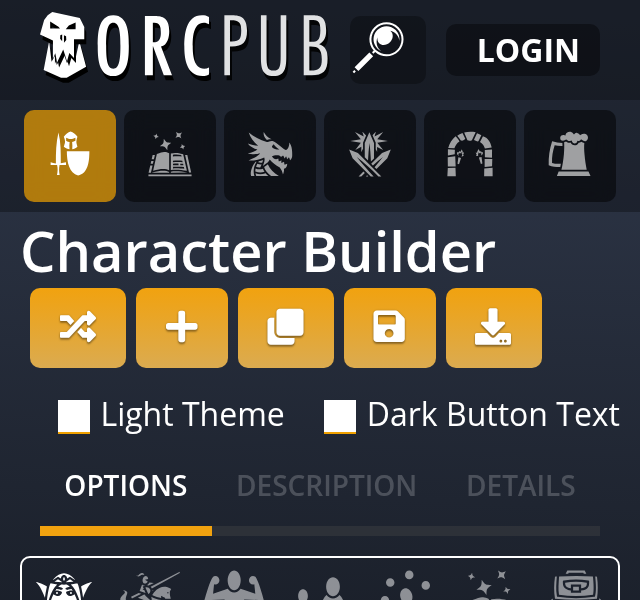
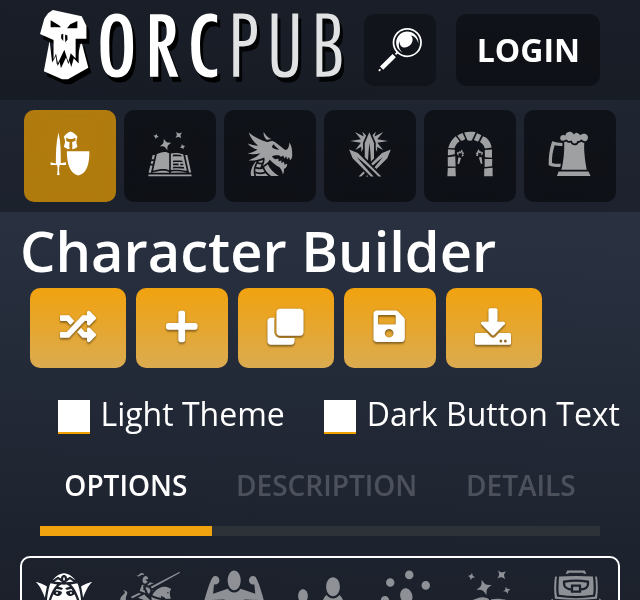
Capture the phone header's left edges, built and aligned, and the centred buttons

Changed region(s): [[0.0625, 0.0, 0.6562, 0.15]]

diff --git a/docs/design/style-guide/round16.html b/docs/design/style-guide/round16.html
@@ -1,0 +1,117 @@
+<title>Phone Left Edges</title>
+<link rel="stylesheet" href="https://fonts.googleapis.com/css2?family=Open+Sans:wght@400;600;700&family=Vollkorn:ital,wght@1,400&display=swap">
+<style>
+/* Layout: one column; each option is a row of real-app captures (desktop, then phone), with a theme switch that swaps every capture at once. */
+:root {
+  --bg: #0e131a; --card: #131924; --fg: #ebeef4; --dim: #8b95a5; --accent: #f0a100;
+  --accent-soft: rgba(240,161,0,0.10); --line: rgba(255,255,255,0.08); --good: #6fbf73; --good-soft: rgba(111,191,115,0.12);
+  --serif: 'Vollkorn', Georgia, serif; --sans: 'Open Sans', system-ui, sans-serif;
+  color-scheme: dark;
+}
+@media (prefers-color-scheme: light) { :root:not([data-theme="dark"]) {
+  --bg: #eef0f3; --card: #fff; --fg: #363636; --dim: #6b7280; --accent: #33658A;
+  --accent-soft: rgba(51,101,138,0.08); --line: rgba(0,0,0,0.10); --good: #2f7d3a; --good-soft: rgba(47,125,58,0.10); color-scheme: light; } }
+:root[data-theme="light"] {
+  --bg: #eef0f3; --card: #fff; --fg: #363636; --dim: #6b7280; --accent: #33658A;
+  --accent-soft: rgba(51,101,138,0.08); --line: rgba(0,0,0,0.10); --good: #2f7d3a; --good-soft: rgba(47,125,58,0.10); color-scheme: light; }
+* { box-sizing: border-box; }
+[hidden] { display: none !important; }
+body { background: var(--bg); color: var(--fg); font: 14px/1.55 var(--sans); }
+.wrap { max-width: 1100px; margin: 0 auto; padding-inline: 20px; padding-block: 28px 64px; display: flex; flex-direction: column; gap: 36px; }
+header { display: flex; flex-wrap: wrap; justify-content: space-between; align-items: end; gap: 16px; border-bottom: 1px solid var(--line); padding-bottom: 18px; }
+h1 { margin: 0; font: italic 400 38px/1.1 var(--serif); }
+.sub { margin: 6px 0 0; color: var(--dim); max-width: 66ch; }
+.cap { font: 600 10px/1 var(--sans); letter-spacing: .16em; text-transform: uppercase; color: var(--dim); }
+.seg { display: inline-flex; border: 1px solid var(--line); border-radius: 6px; overflow: hidden; }
+.seg button { font: 600 12px/1 var(--sans); padding: 9px 14px; background: transparent; color: var(--dim); border: 0; cursor: pointer; }
+.seg button[aria-pressed="true"] { background: var(--accent-soft); color: var(--accent); }
+.seg button:focus-visible { outline: 2px solid var(--accent); outline-offset: -2px; }
+section { display: flex; flex-direction: column; gap: 12px; }
+h2 { margin: 0; font: 700 18px/1.3 var(--sans); display: flex; flex-wrap: wrap; gap: 10px; align-items: center; }
+.rec { font: 700 10px/1 var(--sans); letter-spacing: .12em; text-transform: uppercase; color: var(--good); background: var(--good-soft); padding: 5px 7px; border-radius: 4px; }
+section > p { margin: 0; color: var(--dim); max-width: 70ch; }
+.shots { display: grid; grid-template-columns: minmax(0, 1fr) 260px; gap: 14px; align-items: start; }
+@media (max-width: 760px) { .shots { grid-template-columns: 1fr; } }
+figure { margin: 0; display: flex; flex-direction: column; gap: 6px; min-width: 0; }
+figure img { width: 100%; height: auto; border-radius: 8px; border: 1px solid var(--line); display: block; }
+figcaption { font-size: 12px; color: var(--dim); }
+.ex { display: grid; grid-template-columns: repeat(auto-fit, minmax(240px, 1fr)); gap: 16px; background: var(--card); border: 1px solid var(--line); border-radius: 10px; padding: 16px; }
+.ex figure img { width: 240px; max-width: 100%; }
+ul { margin: 0; padding-left: 18px; display: flex; flex-direction: column; gap: 5px; }
+li::marker { color: var(--accent); }
+.note { background: var(--card); border: 1px solid var(--line); border-radius: 10px; padding: 16px 18px; display: flex; flex-direction: column; gap: 8px; }
+.note h3 { margin: 0; font: 700 14px/1.3 var(--sans); }
+</style>
+
+<style>
+.shot { background: var(--card); border: 1px solid var(--line); border-radius: 10px; padding: 12px; overflow-x: auto; }
+.shot img { display: block; max-width: none; height: auto; }
+.list { display: flex; flex-direction: column; gap: 14px; }
+figcaption b { color: var(--fg); }
+</style>
+<style>
+.rows { display: flex; flex-direction: column; gap: 4px; background: var(--card); border: 1px solid var(--line); border-radius: 10px; padding: 14px 16px; overflow-x: auto; }
+.row { display: grid; grid-template-columns: 170px auto; align-items: center; gap: 12px; }
+.row span { font-size: 12px; color: var(--dim); }
+.row span b { color: var(--fg); }
+.a1 img { width: 600px; image-rendering: pixelated; }
+.a2 img { width: 600px; }
+.s75 img { width: 450px; }
+@media (max-width: 760px) { .row { grid-template-columns: 1fr; gap: 2px; } }
+</style>
+<style>
+.grp { font: 700 12px/1.3 var(--sans); color: var(--fg); margin-bottom: 4px; }
+.row { grid-template-columns: 110px auto; }
+.stack { display: flex; flex-direction: column; gap: 10px; }
+</style>
+<style>
+.pair { display: flex; flex-wrap: wrap; gap: 16px; align-items: flex-start; }
+.pair figure { flex: 0 0 auto; max-width: 100%; }
+.pair img { width: 390px; max-width: 100%; border-radius: 8px; border: 1px solid var(--line); display: block; }
+.pair img.strip { width: 140px; }
+.bar img { width: 390px; max-width: 100%; border-radius: 8px; border: 1px solid var(--line); display: block; }
+.legend { display: flex; flex-wrap: wrap; gap: 6px 16px; margin: 0; padding: 0; list-style: none; font-size: 13px; }
+.legend li { display: flex; align-items: center; gap: 6px; }
+.legend li::marker { content: none; }
+.sw { width: 14px; height: 3px; border-radius: 2px; display: inline-block; }
+.sw.logo { background: #ff5c5c; } .sw.tabs { background: #3ddc84; } .sw.title { background: #4da3ff; }
+.sw.buttons { background: #c084fc; } .sw.panel { background: #ff8fd1; }
+table { border-collapse: collapse; font-size: 13px; }
+th, td { text-align: left; padding: 4px 14px 4px 0; border-bottom: 1px solid var(--line); }
+th { color: var(--dim); font-weight: 600; }
+</style>
+<div class="wrap">
+  <header><div>
+    <div class="cap">OrcPub · feature/style-guide · 942c177d</div>
+    <h1>Phone left edges</h1>
+    <p class="sub">The builder on a 390px phone, dark theme. On the left is the branch as built; on the right is a preview with every left edge on 10px. The preview is CSS injected for the screenshot only; nothing is built yet.</p>
+  </div></header>
+
+  <section><h2>The search and login buttons, fixed</h2>
+  <p>Built: the magnifier is centred in a 36px square, LOGIN is centred in its button, and the two are the same height.</p>
+  <figure class="bar"><img src="round16/bar.png" alt="Phone header bar with the search and login buttons"></figure></section>
+
+  <section><h2>Left edges</h2>
+  <ul class="legend">
+    <li><span class="sw logo"></span>Logo</li><li><span class="sw tabs"></span>Header tabs</li>
+    <li><span class="sw title"></span>Page title</li><li><span class="sw buttons"></span>Yellow buttons</li>
+    <li><span class="sw panel"></span>Builder panel</li>
+  </ul>
+  <table>
+    <tr><th></th><th>Logo</th><th>Tabs</th><th>Title</th><th>Buttons</th><th>Panel</th></tr>
+    <tr><td><b>As built</b></td><td>20px</td><td>12px</td><td>10px</td><td>15px</td><td>10px</td></tr>
+    <tr><td><b>Preview</b></td><td>10px</td><td>10px</td><td>10px</td><td>10px</td><td>10px</td></tr>
+  </table>
+  <div class="pair">
+    <figure><figcaption><b>As built</b> · four different edges</figcaption><img src="round16/edges-now.png" alt="As built, with a line at each left edge"></figure>
+    <figure><figcaption><b>Preview</b> · one edge</figcaption><img src="round16/edges-aligned.png" alt="Preview with all left edges on 10px"></figure>
+  </div>
+  <h3>The left edge, magnified</h3>
+  <div class="pair">
+    <figure><figcaption><b>As built</b></figcaption><img class="strip" src="round16/strip-now.png" alt="As built, left 70px magnified"></figure>
+    <figure><figcaption><b>Preview</b></figcaption><img class="strip" src="round16/strip-aligned.png" alt="Preview, left 70px magnified"></figure>
+  </div></section>
+
+  <div class="note"><h3>What the preview changes, on phones only</h3>
+  <p>The top bar's side padding goes from 20px to 10px, so the logo moves 10px left and LOGIN 10px right. The tab row's margin goes from 10px to 8px, so the tabs' own 2px puts them on 10px. The yellow buttons' row loses 5px, because each button already carries its own 5px.</p></div>
+</div>

diff --git a/docs/design/style-guide/capture-left-edges.js b/docs/design/style-guide/capture-left-edges.js
@@ -1,0 +1,61 @@
+// The phone header's left edges (round16.html): a line at the left edge of each element down the
+// page, as built and with a preview (CSS injected here only) that puts them all on 10px; and the
+// bar with the search and login boxes. Needs the app on :8890 (prod build) from
+// feature/style-guide. Run from this folder:
+//   NODE_EXTRA_CA_CERTS=/root/.ccr/ca-bundle.crt node capture-left-edges.js
+const { chromium, devices } = require('playwright');
+(async () => {
+  const fs = require('fs'); const d = fs.readdirSync('/opt/pw-browsers').filter(x => x.startsWith('chromium-') && !x.includes('headless')).pop();
+  const b = await chromium.launch({ executablePath: `/opt/pw-browsers/${d}/chrome-linux/chrome` });
+  const ctx = await b.newContext({ ...devices['iPhone 13'], deviceScaleFactor: 3 });
+  await ctx.addInitScript(() => { try { localStorage.setItem('user', '{:theme "dark-theme"}'); } catch (_) {} });
+  await ctx.route(/fonts\.(googleapis|gstatic)\.com/, async r => r.fulfill({ response: await r.fetch() }));
+  const p = await ctx.newPage();
+  await p.goto('http://localhost:8890/pages/dnd/5e/character-builder', { waitUntil: 'networkidle' });
+  const c = p.locator('#cookie-btn');
+  await c.waitFor({ timeout: 5000 }).then(() => c.click()).catch(() => {});
+  await c.waitFor({ state: 'hidden', timeout: 5000 }).catch(() => {});
+  await p.addStyleTag({ content: '.whats-new-backdrop { display: none !important; }' });
+  await p.evaluate(() => document.fonts.ready); await p.waitForTimeout(400);
+  await p.screenshot({ path: 'round16/bar.png', clip: { x: 0, y: 0, width: 390, height: 52 } });
+  const ALIGN = `
+    .app-header-bar .w-100-p { padding-left: 10px !important; padding-right: 10px !important; }
+    .app-header-menu { padding-left: 8px !important; padding-right: 8px !important; }
+    .flex-wrap.edge-align-buttons.edge-align-buttons { margin-left: 5px !important; }`;
+  for (const state of ['now', 'aligned']) {
+    if (state === 'aligned') {
+      await p.evaluate(css => {
+        document.querySelector('h1').closest('.flex-wrap').children[1].classList.add('edge-align-buttons');
+        const s = document.createElement('style'); s.textContent = css; document.head.appendChild(s);
+      }, ALIGN);
+      await p.waitForTimeout(300);
+      await p.screenshot({ path: 'round16/bar-aligned.png', clip: { x: 0, y: 0, width: 390, height: 52 } });
+    }
+    const edges = await p.evaluate(() => {
+      document.querySelectorAll('.edge-layer').forEach(e => e.remove());
+      // the ink, not the box: a text's left edge is where its first glyph starts
+      const ink = e => { const r = document.createRange(); r.selectNodeContents(e); return r.getBoundingClientRect().left; };
+      const list = [
+        ['logo', document.querySelector('.app-header-bar img').getBoundingClientRect().left, '#ff5c5c'],
+        ['tabs', document.querySelector('.header-tab').getBoundingClientRect().left, '#3ddc84'],
+        ['title', ink(document.querySelector('h1')), '#4da3ff'],
+        ['buttons', document.querySelector('h1').closest('.flex-wrap').children[1].firstElementChild.getBoundingClientRect().left, '#c084fc'],
+        ['panel', document.querySelector('.builder-tabs').parentElement.getBoundingClientRect().left, '#ff8fd1'],
+      ];
+      const layer = document.createElement('div');
+      layer.className = 'edge-layer';
+      layer.style.cssText = 'position:fixed;inset:0;pointer-events:none;z-index:99999';
+      list.forEach(([, x, color]) => {
+        const line = document.createElement('div');
+        line.style.cssText = `position:absolute;top:0;bottom:0;left:${x - 0.5}px;width:1px;background:${color}`;
+        layer.append(line);
+      });
+      document.body.appendChild(layer);
+      return list.map(([n, x]) => `${n} ${Math.round(x)}`);
+    });
+    console.log(state, edges.join(', '));
+    await p.screenshot({ path: `round16/edges-${state}.png`, clip: { x: 0, y: 0, width: 390, height: 600 } });
+    await p.screenshot({ path: `round16/strip-${state}.png`, clip: { x: 0, y: 0, width: 70, height: 600 } });
+  }
+  await b.close();
+})().catch(e => { console.error(e); process.exit(1); });
